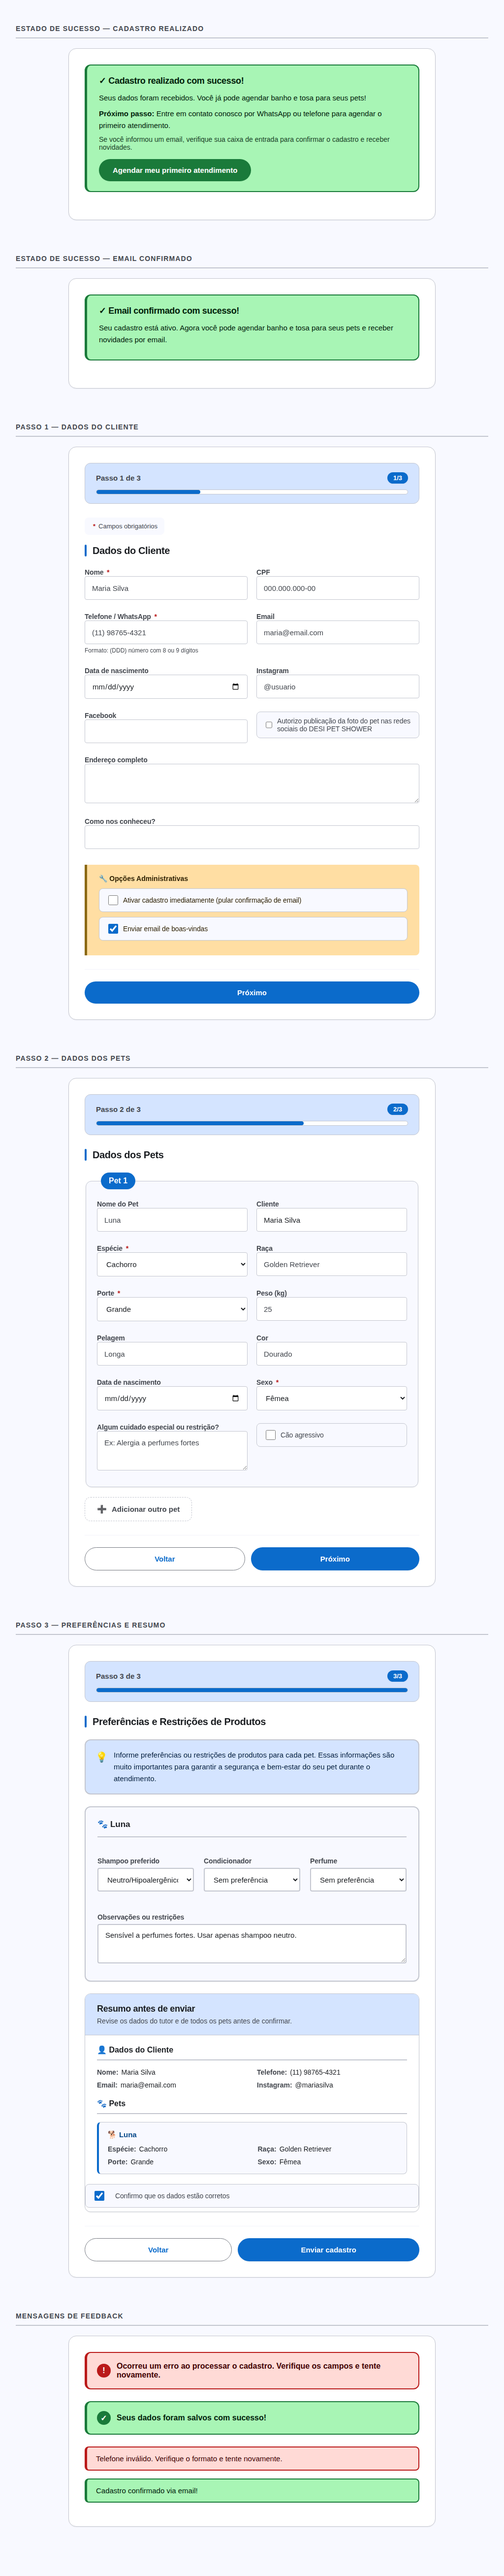
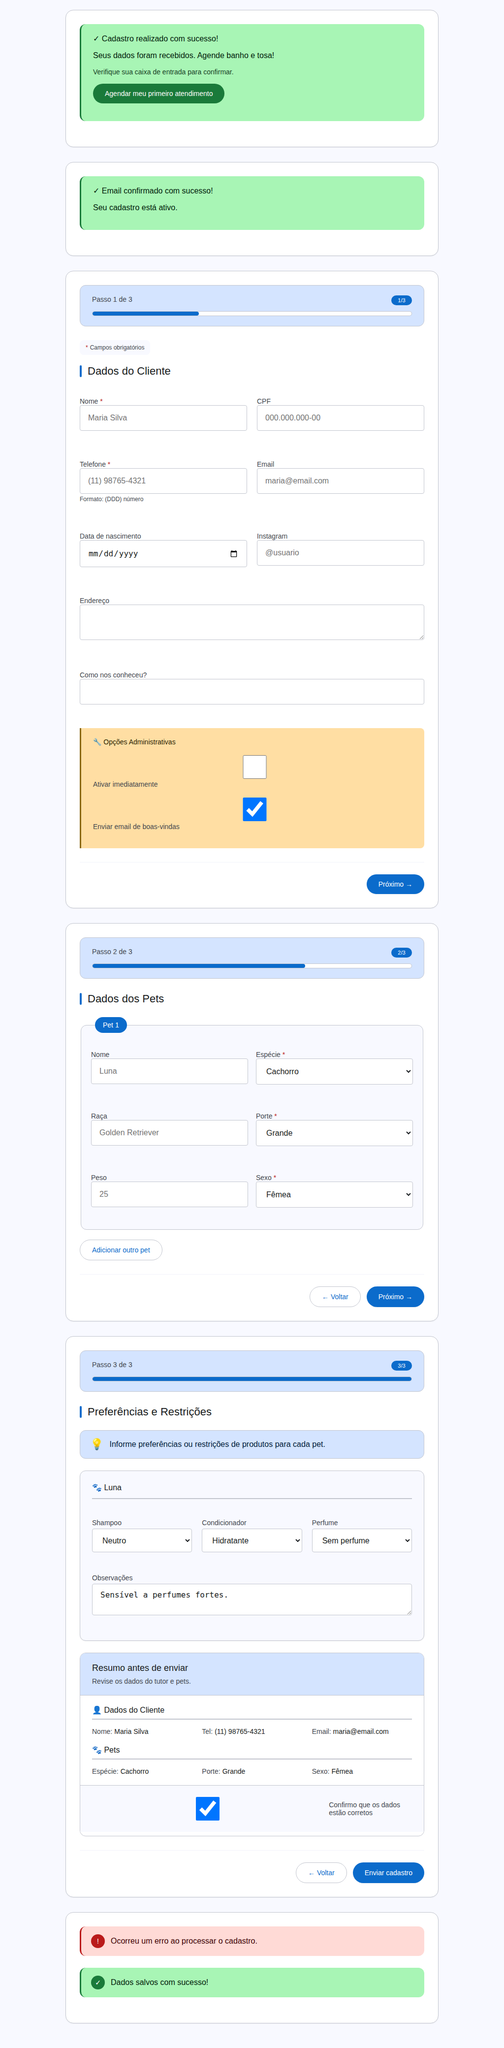
docs: update screenshots with all registration form screens at 3 viewports
- Replace screenshot PNGs with new captures showing all 6 screens
- Update REGISTRATION_REBRANDING_SCREENSHOTS.md with screen descriptions
- Fix demo HTML: remove remaining inline styles (style="flex:1 1 100%", style="margin-top: 16px")

Changed region(s): [[0.125, 0.0, 0.8438, 1.0]]

diff --git a/docs/screenshots/registration-rebranding.html b/docs/screenshots/registration-rebranding.html
@@ -88,11 +88,11 @@
                     <p><label>Instagram<br><input type="text" name="client_instagram" placeholder="@usuario"></label></p>
                     <p><label>Facebook<br><input type="text" name="client_facebook"></label></p>
                     <p><label><input type="checkbox" name="client_photo_auth" value="1"> Autorizo publicação da foto do pet nas redes sociais do DESI PET SHOWER</label></p>
-                    <p style="flex:1 1 100%;"><label>Endereço completo<br><textarea name="client_address" rows="2"></textarea></label></p>
-                    <p style="flex:1 1 100%;"><label>Como nos conheceu?<br><input type="text" name="client_referral"></label></p>
+                    <p class="dps-field-full"><label>Endereço completo<br><textarea name="client_address" rows="2"></textarea></label></p>
+                    <p class="dps-field-full"><label>Como nos conheceu?<br><input type="text" name="client_referral"></label></p>
                 </div>
 
-                <div class="dps-admin-options" style="margin-top: 16px;">
+                <div class="dps-admin-options">
                     <h5 class="dps-admin-options__title">🔧 Opções Administrativas</h5>
                     <p><label><input type="checkbox" name="dps_admin_skip_confirmation" value="1"> Ativar cadastro imediatamente (pular confirmação de email)</label></p>
                     <p><label><input type="checkbox" name="dps_admin_send_welcome" value="1" checked> Enviar email de boas-vindas</label></p>

diff --git a/docs/screenshots/REGISTRATION_REBRANDING_SCREENSHOTS.md b/docs/screenshots/REGISTRATION_REBRANDING_SCREENSHOTS.md
@@ -12,24 +12,43 @@
 - Remoção de bloco `<style>` inline redundante (já coberto por regras CSS grid)
 - Remoção de estilos inline em pet fieldsets (`style="border:1px solid #ddd"`)
 - Mensagens de feedback (fallback) migradas de inline para classes CSS
+- Alinhamento com `docs/visual/FRONTEND_DESIGN_INSTRUCTIONS.md` e `VISUAL_STYLE_GUIDE.md`:
+  - `font-weight`: 700/600 → 500 (M3 permite apenas 400 e 500)
+  - Font-sizes base: px → `var(--dps-typescale-*)`
+  - Espaçamentos: px → `var(--dps-space-*)`
+  - Alertas: `border: 2px + border-left: 5px` → `border-left: 3px solid` (padrão `.dps-alert`)
+  - Remoção de `letter-spacing` negativo (não M3)
+  - Estilos inline PHP (`style="flex:1 1 100%"`) → classes CSS (`dps-field-full`)
 
 ## Viewports
 - Desktop: 1440×900
 - Tablet: 1024×768
 - Mobile: 375×812
 
+## Telas capturadas
+
+Todas as telas do formulário de cadastro público (shortcode `dps_registration_form`):
+
+1. **Estado de Sucesso** — Cadastro realizado com sucesso + CTA "Agendar"
+2. **Email Confirmado** — Confirmação via link de email
+3. **Passo 1 — Dados do Cliente** — Campos do tutor (nome, CPF, telefone, email, etc.) + opções administrativas
+4. **Passo 2 — Dados dos Pets** — Fieldsets de pets com grid 2 colunas + botão "Adicionar outro pet"
+5. **Passo 3 — Preferências e Resumo** — Preferências de produtos por pet + resumo completo antes do envio
+6. **Mensagens de Feedback** — Alertas de erro e sucesso (M3 border-left pattern)
+
 ## Capturas
 
-### Desktop — Formulário completo (todos os passos)
+### Desktop (1440×900) — Todas as telas
 ![Registration rebranding desktop](assets/registration-rebranding/registration-desktop.png)
 
-### Tablet — Layout responsivo
+### Tablet (1024×768) — Layout responsivo
 ![Registration rebranding tablet](assets/registration-rebranding/registration-tablet.png)
 
-### Mobile — Layout mobile-first
+### Mobile (375×812) — Layout mobile-first
 ![Registration rebranding mobile](assets/registration-rebranding/registration-mobile.png)
 
 ## Observações
-- Capturas geradas a partir do arquivo de demo em `docs/screenshots/registration-rebranding.html` com os estilos oficiais do add-on.
-- O formulário já possuía CSS M3 Expressive maduro (1800+ linhas). O rebranding focou em eliminar estilos inline hardcoded no PHP.
+- Capturas geradas a partir do arquivo de demo em `docs/screenshots/registration-rebranding.html` com os estilos oficiais do add-on (`registration-addon.css` + `dps-design-tokens.css`).
+- O formulário já possuía CSS M3 Expressive maduro (1900+ linhas). O rebranding focou em: (1) eliminar estilos inline hardcoded no PHP, e (2) alinhar com as orientações de `docs/visual/`.
 - Templates de email mantêm estilos inline intencionalmente (necessário para compatibilidade com clientes de email).
+- Página de configurações admin (escopo fora do shortcode público) mantém estilos WP admin padrão.
